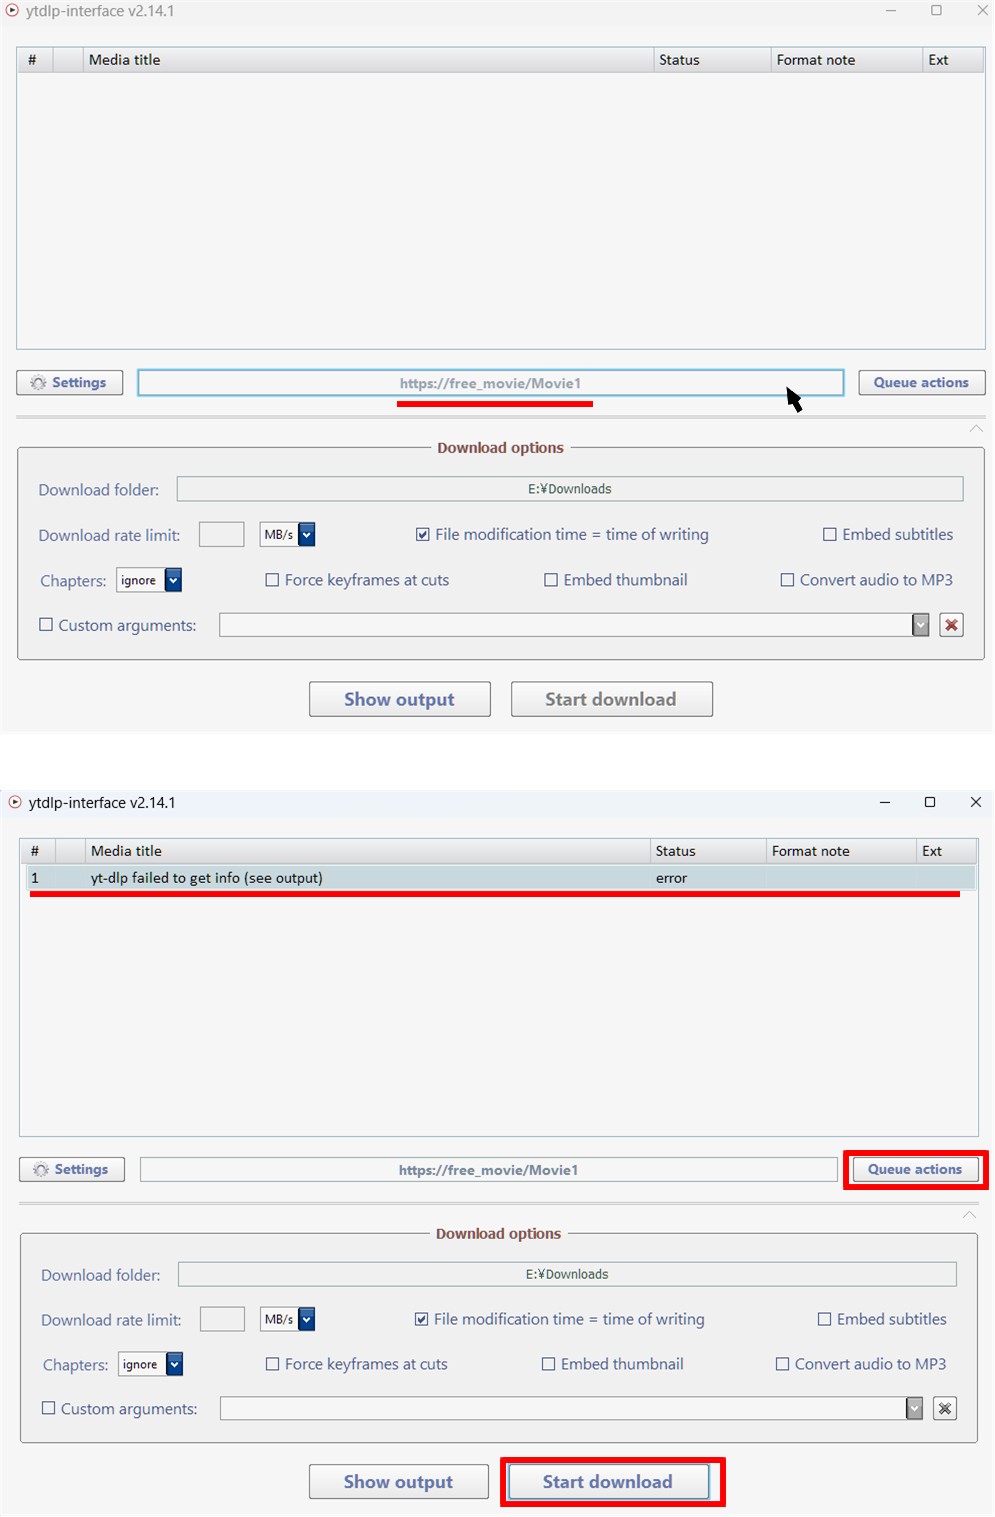
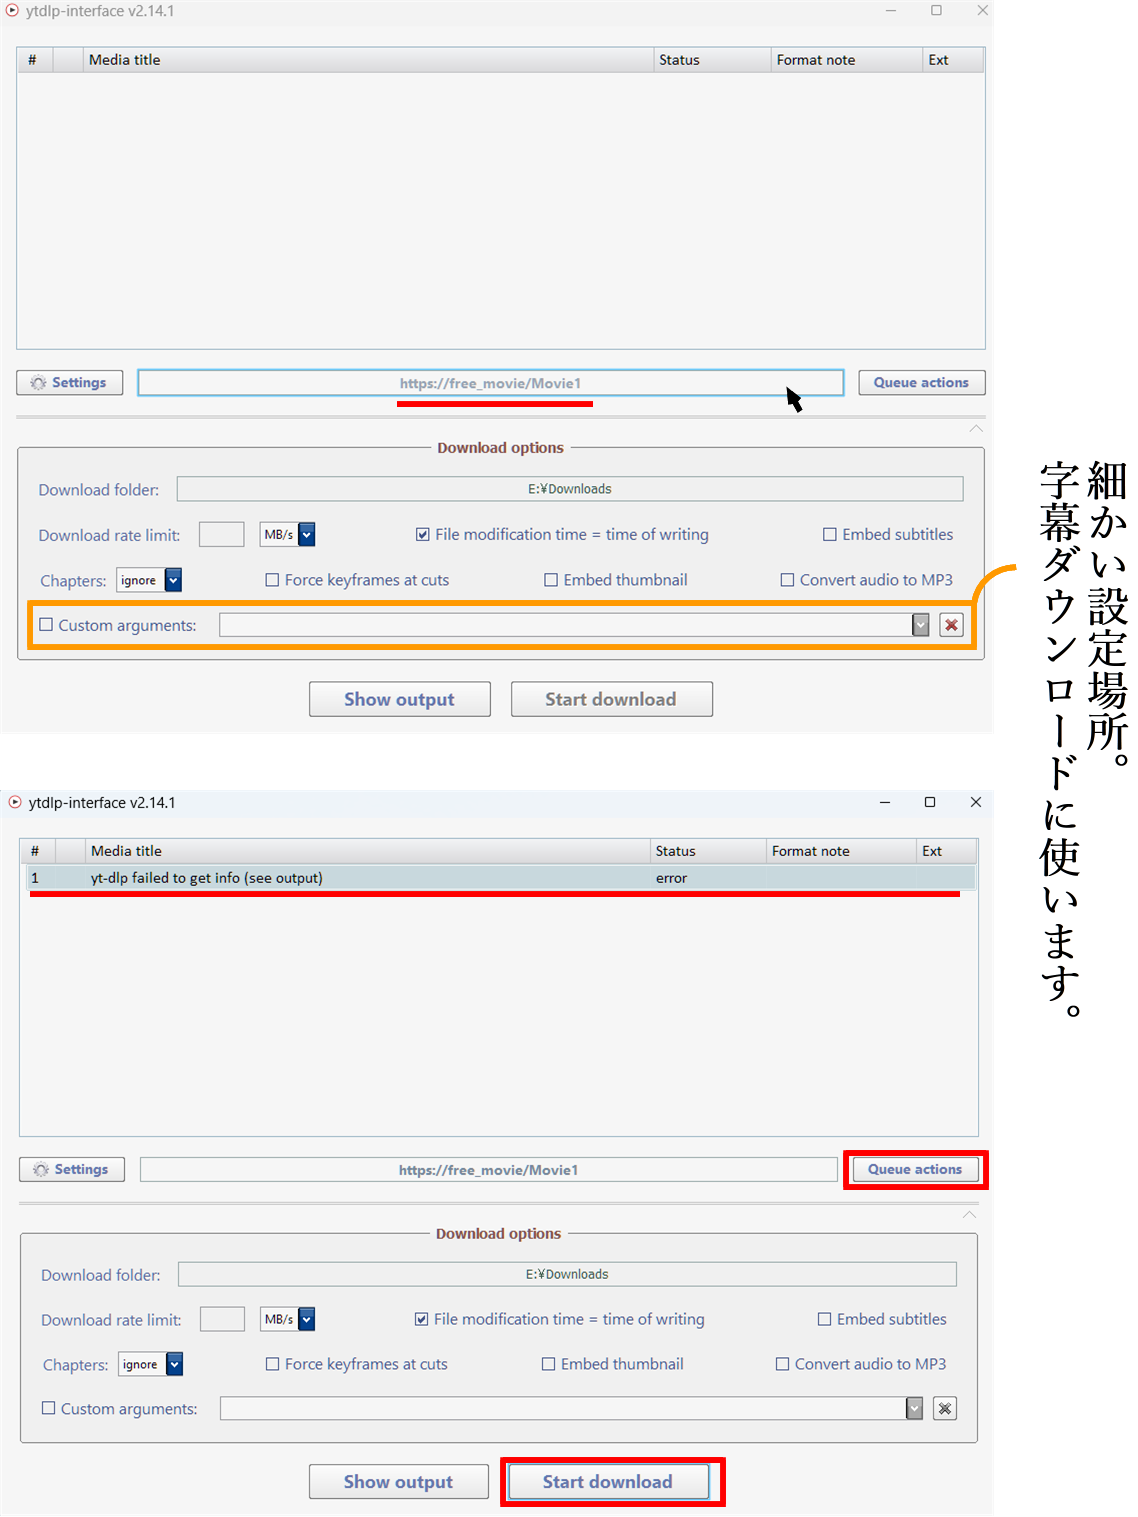
Add files via upload

diff --git a/index.html b/index.html
@@ -39,7 +39,7 @@
                         </div>
                     </li>
                     <li class="dropdown"> <a href="#none"><span class="material-symbols-outlined g_icon" style="color:white;">heart_plus</span><span class="md" style="color:white;">お薦めソフト</span></a>
-                        <div class="dropdown-content"> <a href="#pz">Pazera Free Audio Extractor</a> <a href="#yi">ytdlp-interface</a> <a href="#ye">yt-dlp.exe</a> <a href="#pp">Pot Player</a> <a href="#se">Subtitle Edit</a> <a href="#other">その他</a>
+                        <div class="dropdown-content"> <a href="#pz">Pazera Free Audio Extractor</a> <a href="#yi">ytdlp-interface</a>                              <a href="#pp">Pot Player</a> <a href="#se">Subtitle Edit</a> <a href="#other">その他</a>
                         </div>
                     </li>
                     <li class="dropdown"> <a href="#none"><span class="material-symbols-outlined g">person_raised_hand</span><span class="md">利用規約等</span></a>
@@ -93,8 +93,7 @@
                             <a href="#yi">ytdlp-interface</a>
                         </li>
                         <li>
-                            <a href="#ye">yt-dlp.exe</a>
-                        </li>
+</li>
                         <li>
                             <a href="#pp">Pot Player</a>
                         </li>
@@ -578,7 +577,7 @@
                             <div> 
                                 <dt>翻訳先言語</dt> 
                                 <dd>
-                                    <p ""><strong>翻訳先の言語を指定することで、翻訳後の句点,読点の区切り方が変更されます。また出力ファイル名につくドメインが変わります(掲載の国のうちの一部はまだ対応が終わっていません。)</strong></p>
+                                    <p><strong>翻訳先の言語を指定することで、翻訳後の句点,読点の区切り方が変更されます。また出力ファイル名につくドメインが変わります(掲載の国のうちの一部はまだ対応が終わっていません。)</strong></p>
                                 </dd>                                 
                             </div>
                         </div>
@@ -728,7 +727,7 @@
                                 <p style="margin-bottom:10px;">
                                 オーバーレイ字幕はオーバーレイの右下にカーソルを運び、Bにハンドルマークを出してクリック&ドラッグし領域の大きさを調整します。また、移動は上部（A:ラインより上）をクリック&ドラッグして操作します。 </p>
                                 <p style="text-align: center;"><img src="overlay.png" alt="オーバーレイの説明図" style="width:78%;box-shadow: none;margin-top:30px;"></p>
-                                <p class="box_button" style="padding:0 10px:">字幕の調整</p>
+                                <p class="box_button" style="padding:0 10px;">字幕の調整</p>
                                 <div class="clear_fix">
                                     <p><img src="settei.png" alt="オーバーレイの説明図" class="float_img"></p>
                                     <p>字幕幅、高さ、行間、フォントサイズ等の調整は「設定ボタン」から設定画面を開き、スケールバーを動かして調整します。</p>
@@ -1395,55 +1394,20 @@
                             </div>
                             <p>登録がすんだら、<strong>Start download</strong> を押せばダウンロードが始まります。右の <strong>Queue actions</strong>
                             からもダウンロードを開始することができますし、登録されたファイル名を右クリックしてもダウンロード開始のオーダーを出せます。</p>
+                            <p class="mini_button"><span class="hole">字幕のダウンロードについて</span></p>
+                            <p>さて、ytdlp-interfaceで字幕を一緒にダウンロードする方法を書きます。</p>
+                            <p>UIの中からembed subtitlesを選んでしまうと動画に字幕が埋め込まれる形になり、その動画はfaster-whisperで文字起こしできなくなってしまいます。</p>
+                            <p>そこで、<strong class="marker_yellow">Custom arguments</strong>を使います。添付画像のオレンジ枠部分です。</p>
+                            <p>Custom argumentsにチェックを入れて、右隣のテキストボックスに<span class="marker_orange">--write-sub</span>と入力します。</p>
+                            <p>製作された字幕をアップロードしている場合には、「<strong>--write-sub</strong>」、自動生成字幕の場合は「<strong>--write-auto-sub</strong>」と指定しますが、私は前者で成功することが多いです。これを指定した上で動画のダウンロードを実行すると、字幕ファイルと動画ファイルがダウンロードされます。</p>
+                            <p>もし、動画をダウンロードしたくなくて、字幕だけダウンロードしたい場合は、もう一つ指定を増やします。</p>
+                            <p><span class="marker_orange">--write-sub</span> <span class="marker_pink">--skip-download</span>というように動画のダウンロードはskipするように指示します。1つ前の指示との間には半角空白を入れます。これでダウンロードボタンを開始すると、動画ファイルはダウンロードされず、字幕ファイルのみがダウンロードされます。</p>
+                            
                             <p>以上、基本的な使い方を記しましたが、「ytdlp
                             interface」で検索すれば、使い方を記載したサイトが見つかると思います。一括登録や複数同時ダウンロード等、色々素晴らしい機能のあるアプリです。</p>
                         </div>
                     </div>
-                    <div class="content-section" id="ye">
-                        <h2 class="favorite_title_ye"> <div class="outer ye"><span class="inner">yt-dlp.exe</span>
-                            </div> </h2>
-                        <div class="blue_box_light">
-                            <p> <span class="marker_yellow">yt-dlp.exe</span>は動画や字幕をダウンロードするアプリで、上で紹介した <strong>ytdlp
-                                interface</strong> はこの <strong>yt-dlp.exe</strong>
-                            をGUIで操作できるようにしたアプリです。つまりポチポチボタンをおして使えるようにしてくれたのがError Flynnさん。ここでは、 <span class="marker_pink">字幕だけをダウンロードする</span>ために、このアプリの使い方を記します。</p>
-                            <p><strong>yt-dlp.exe</strong>は<strong>ytdlp interface</strong>のアプリフォルダに入っているので、それを使います。</p>
-                            <p>
-                            ytdlp interfaceフォルダを開いて、<span class="marker_purple">yt-dlp.exe</span>を見つけます。</p>
-                            <p class="mini_button"><span class="hole">yt-dlp.exeを使う前に･･･</span></p>
-                            <p>
-                            ただ、このアプリは<strong>ダブルクリック</strong>で起動するアプリではありません。 <strong>コマンドプロンプト</strong>から呼び出して使うアプリです。抵抗がある人もいると思いますが、やる作業は少ないので <strong>コマンドプロンプト</strong>を使ったことがない方でも、そもそも「<strong>コマンドプロンプト</strong>って何？」という方でも大丈夫だと思います。 </p>
-                            <p class="mini_button"><span class="hole">コマンドプロンプトを起動しよう！</span></p>
-                            <p> <strong>コマンドプロンプト</strong>は略して<span class="marker_yellow">cmd</span>です。タスクバーの<span class="marker_purple">Windowsマーク</span>を押して <span class="marker_purple">検索欄に「cmd」と打ちます。</span>。検索結果に<strong>コマンドプロンプト</strong>が出てくるのでクリックして起動します。 </p>
-                            <p class="mini_button"><span class="hole">ダウンロード先をデスクトップに変更</span></p>
-                            <p>
-                            Windowsの設定を変更していなければ、「<strong>C:\Users\Username&gt;</strong>」と表示されていると思います（Usernameは各々異なります）。ただ、このままだとダウンロードされたファイルがC:\Users\Usernameの中に保存されるので、そこへ取りに行かなくてはなりません。そこで、保存先をデスクトップにするよう命令します。<strong>cd
-                                despktop</strong>と入力します。そして、Enterを押します。 </p>
-                            <p>
-                            Enterを打つ前は「<strong>C:\Users\Username&gt;</strong><span class="marker_yellow">cd</span> <span class="marker_yellow">desktop</span>」、Enter後の </p>
-                            <p>新たな行は「<strong>C:\Users\Username\Desktop&gt;</strong>」です。これで、ダウンロードファイルはデスクトップにダウンロードされます。</p>
-                            <p class="mini_button"><span class="hole">yt-dlp.exeを呼び出す。</span></p>
-                            <p><strong>コマンドプロンプト</strong>から、<strong>yt-dlp.exe</strong>を呼び出します。必要なのは<span class="marker_purple">yt-dlp.exeのパス</span>です。パスは住所みたいなもので、アドレスのこと。「C:\Users\UserName\Desktop」のような表記です。 </p>
-                            <p><strong>ytdlp
-                                interfaceフォルダ</strong>の<strong>yt-dlp.exe</strong>を選択して、右クリックします（あるいはShift+右クリック）。コンテキストメニューから<span class="marker_pink">『パスのコピー』</span>を選び、パスを入手します。</p>
-                            <p><strong>コマンドプロンプト</strong>のウィンドウを選択して、<strong>Control+V</strong>で貼り付けます。</p>
-                            <p>すると、次の画像のようになります。</p>
-                            <div class="img_center">
-                                <img class="pazera_img" src="cmd1.png" alt="Pazera Freeの画像" style="box-shadow: none;">
-                            </div>
-                            <p>これで、<strong>コマンドプロンプト</strong>から<strong>yt-dlp.exe</strong>を呼び出すコードを書いたことになります。あと少し続きがあります。 </p>
-                            <p class="mini_button"><span class="hole">ダウンロードの実行</span></p>
-                            <p><strong>yt-dlp</strong>はオプションを指定して使います。</p>
-                            <p>今回は2つオプションの指定の仕方を紹介します。</p>
-                            <div style="text-align: center;">
-                                <p sytle="display:inline-block;"> <span class="marker_purple">"貼り付けたパス"</span> <span class="marker_orange">--write-sub</span> <span class="marker_pink">--skip-download</span> <span class="marker_yellow">https://free_download/Movie1</span></p>
-                            </div>
-                            <p>貼り付けたパスの次はスペースを1つ入れて、「<span class="marker_orange">--write-sub</span>」か「<span class="marker_orange">--write-auto-sub</span>」を書きます。前者は <strong>
-                                手動で提供されている字幕（お手製の字幕）をダウンロード</strong>するオプション指定。後者は<strong>自動生成された（機械翻訳の）字幕をダウンロード</strong>するオプション指定です。私の利用法の場合、基本前者（"--write-sub"）です。駄目なら、もう一方を試せば良いのです。 </p>
-                            <p>さて、次は固定（一択）です。「<span class="marker_pink">--skip-download</span>」。何を意味するかというと、動画はいらないよ（スキップして）！と言っているのです。</p>
-                            <p>あとはスペースを空けて <span class="marker_yellow">動画のアドレス</span>を貼り付けます。</p>
-                            <p>実行は<strong>Enterキー</strong>。うまくいけば、ダーッと経過が表示されて字幕ファイルがデスクトップにダウンロードされているはずです。</p>
-                        </div>
-                    </div>
+
                     <div class="content-section" id="pp">
                         <h2 class="favorite_title_pp"> <div class="outer pp"><span class="inner">Pot Player</span>
                             </div> </h2>
